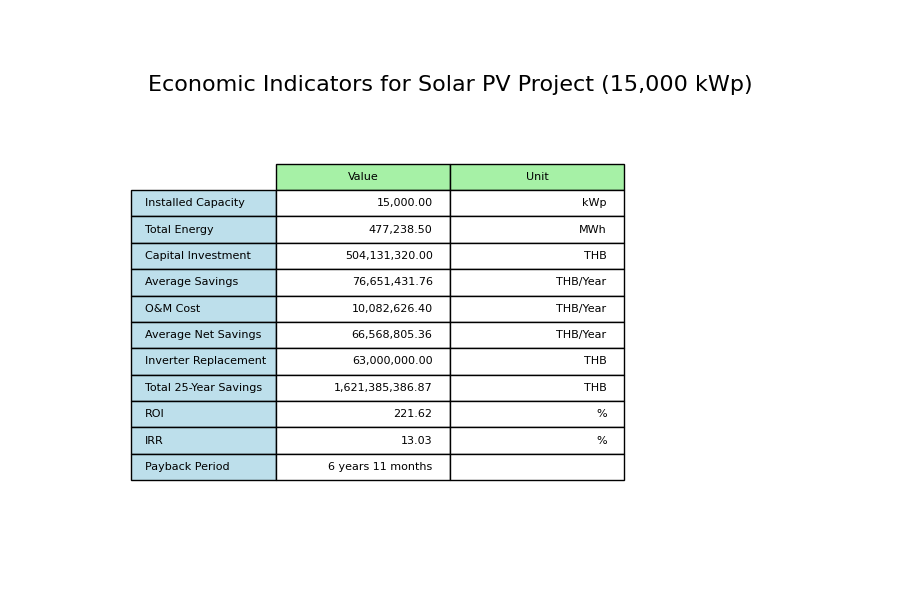
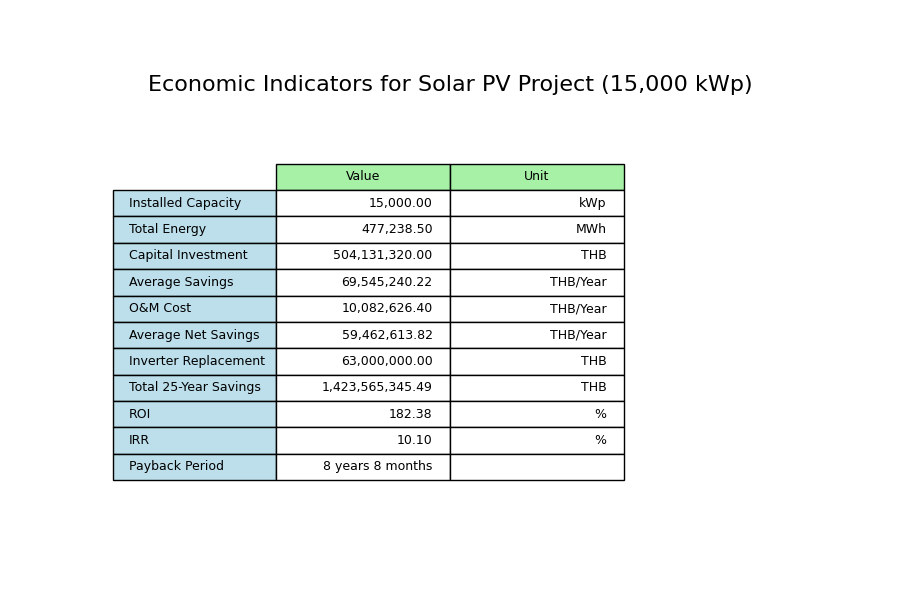
up

diff --git a/5_economic_GSA.py b/5_economic_GSA.py
@@ -6,6 +6,7 @@ import matplotlib.colors as mcolors
 import pandas as pd
 import json
 import math
+import statistics
 import os
 
 # Inputs
@@ -29,7 +30,10 @@ solar_degradation_after_first_year = 0.55  # %
 inverter_replacement_cost = 4200  # THB/kW
 o_and_m_percentage = 2   # %
 o_and_m_escalation = 0   # Escalation rate
-o_and_m_start_at_year = 3 #
+o_and_m_start_at_year = 1 #
+
+tariff_discount = 15 # %
+contract_year = 15
 
 ## EGAT_operation_cost
 # from excel 2 person 3 day approx  59,000 +(27*km) -- minimum
@@ -141,7 +145,11 @@ def calculate_economic(installed_capacity,capacity_factor,energy_of_pv_serve_loa
             # Calculate Annual Revenue for the year
             revenue_of_energy = 0
         else:
-            revenue_of_energy = annual_energy_year * tariff_rate
+            if year <= contract_year:
+                # revenue_of_energy = annual_energy_year * tariff_rate
+                revenue_of_energy = annual_energy_year * tariff_rate * (1-tariff_discount/100)
+            else:
+                revenue_of_energy = annual_energy_year * tariff_rate
         
         # Append Annual Revenue to list
         revenue_of_energy_list.append(revenue_of_energy)
@@ -158,7 +166,67 @@ def calculate_economic(installed_capacity,capacity_factor,energy_of_pv_serve_loa
         
         # Append year
         years.append(year)
-
+        
+    service_price_list = revenue_of_energy_list[1:1 + contract_year]
+    service_price = round(statistics.mean(service_price_list)+500,-3)
+    print("service_price: {:,.2f}".format(service_price))
+    service_price_to_EGAT = [service_price] * contract_year + [0] * (project_time_years-contract_year)
+    net_saving = [x - y for x, y in zip(service_price_list, service_price_to_EGAT)]
+    print(net_saving)
+    # print(service_price_to_EGAT)
+    # print(service_price_list)
+    
+    
+    # Calculate cash flows for each year
+    for year in range(0, project_time_years + 1):
+        # Calculate Solar Degradation for the year
+        if year == 0:
+            solar_degradation = 1
+        elif year == 1:
+            solar_degradation = solar_degradation_list[-1]-solar_degradation_first_year/100
+            # solar_degradation = solar_degradation_list[-1]*(1-solar_degradation_first_year/100)
+        else:
+            solar_degradation = solar_degradation_list[-1]-solar_degradation_after_first_year/100
+            # solar_degradation = solar_degradation_list[-1]*(1-solar_degradation_after_first_year/100)
+        
+        # Append Solar Degradation to list
+        solar_degradation_list.append(solar_degradation)
+        
+        # Calculate Annual Generation for the year considering degradation
+        annual_energy_year = annual_generation * solar_degradation
+        
+        # Append Annual Generation to list
+        annual_energy_year_list.append(annual_energy_year)
+        
+        # Calculate O&M Cost for the year starting from year o_and_m_start_at_year
+        if year >= o_and_m_start_at_year:
+            o_and_m_cost = initial_investment * o_and_m_percentage/100 * ((1 + o_and_m_escalation/100) ** (year - 3))
+            # Add Inverter Replacement Cost in the 10th year
+            if year == 10:
+                inverter_replacement = inverter_replacement_cost * installed_capacity
+                o_and_m_cost += inverter_replacement
+        else:
+            o_and_m_cost = 0
+        
+        # Append O&M Cost to list
+        o_and_m_cost_list.append(o_and_m_cost)
+        
+        if year == 0:
+            # Calculate Annual Revenue for the year
+            revenue_of_energy = 0
+        else:
+            if year <= contract_year:
+                # revenue_of_energy = annual_energy_year * tariff_rate
+                revenue_of_energy = annual_energy_year * tariff_rate - service_price
+            else:
+                revenue_of_energy = annual_energy_year * tariff_rate
+        
+        # Append Annual Revenue to list
+        revenue_of_energy_list.append(revenue_of_energy)
+        
+    
+    
+    
     # Calculate IRR and Payback Period
     irr = npf.irr(cash_flow_list)
     irr_percent = round(irr*100, 2)
@@ -218,6 +286,8 @@ def calculate_economic(installed_capacity,capacity_factor,energy_of_pv_serve_loa
     print("Inverter Replacement: {:,.2f} THB".format(inverter_replacement_at_first_year))
     total_25_year_saving = sum(revenue_of_energy_list)-sum(o_and_m_cost_list)
     print("Total {:,.0f}-Year Savings: {:,.2f} THB".format(project_time_years,total_25_year_saving))
+    
+    
 
     print("IRR: {:.2f}%".format(irr_percent))
     ROI = (total_25_year_saving-initial_investment)/initial_investment*100
